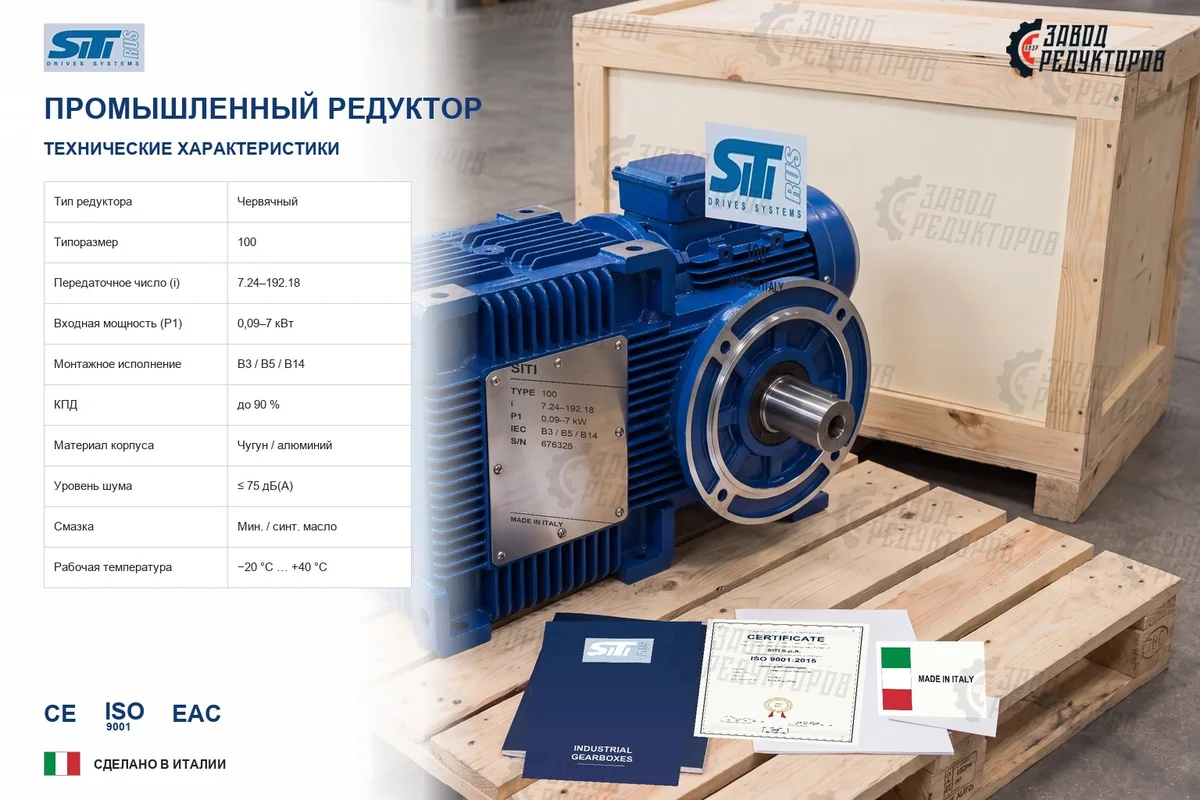
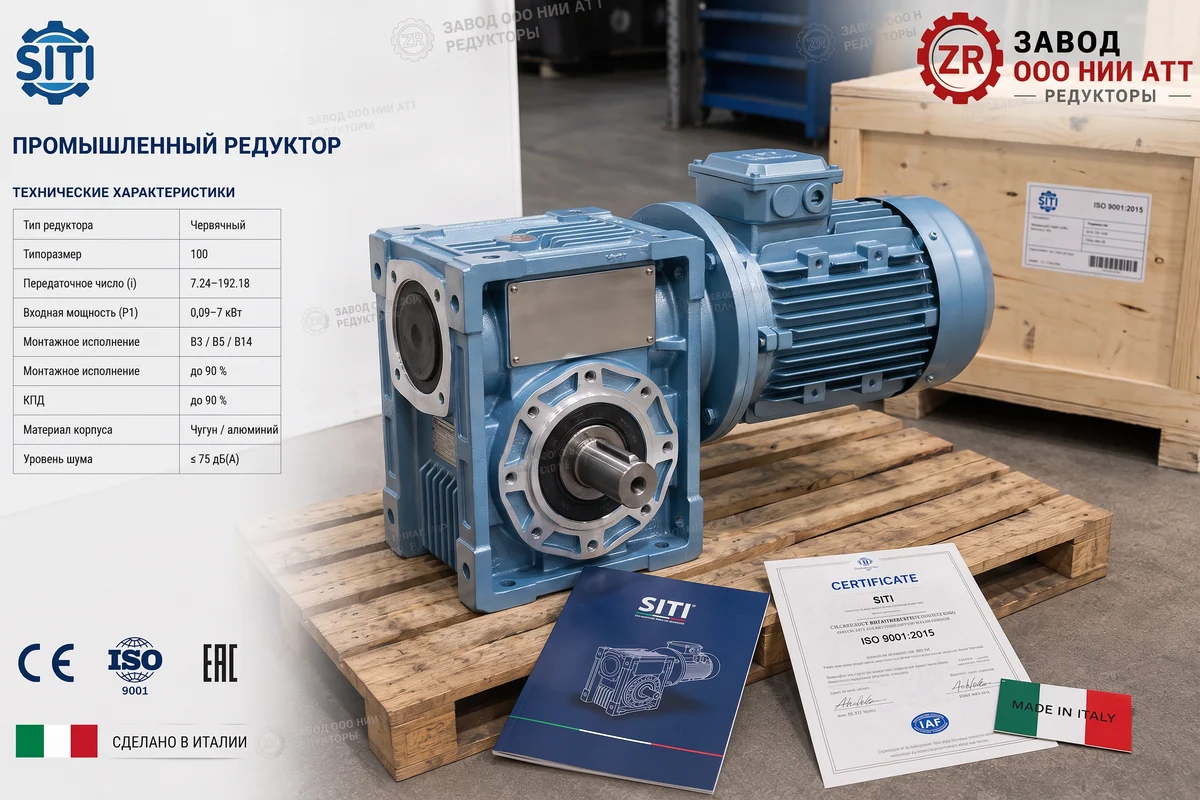
Карточки одним промтом: партия 2 (ещё 8 фирм), правки промта
Покрыто 16 из 19 фирм. Исправлено: держатель сертификата = фирма (было
всегда MOTOVARIO), явное «EXACTLY N rows, no duplicate rows» убрало дубли.
SEW красный, TOS Znojmo зелёный, Transtecno серебристый — цвета по фирмам.

diff --git a/tools/imggen/oneshot.py b/tools/imggen/oneshot.py
@@ -125,7 +125,8 @@ def build_prompt(card):
     style = BRAND_STYLE.get(card["brand"], DEFAULT_STYLE)
     geo = GEO.get(g, GEO["червячный"])
     flag_adj, made = FLAG.get(card["country"], ("", card["country"].upper()))
-    table = "\n".join(f"{k} | {v}" for k, v in rows(card))
+    rr = rows(card)
+    table = "\n".join(f"{k} | {v}" for k, v in rr)
     logo = card["brand"]
     return (
         "Recreate this exact marketing product card layout, same composition, "
@@ -133,9 +134,10 @@ def build_prompt(card):
         "below.\n\n"
         "LEFT SIDE — white panel with a specifications table. Dark blue bold "
         "title «ПРОМЫШЛЕННЫЙ РЕДУКТОР», subtitle «ТЕХНИЧЕСКИЕ ХАРАКТЕРИСТИКИ». "
-        "Then a clean bordered two-column table, Russian labels left and values "
-        "right, EXACTLY these rows, crisp correctly spelled Russian, black on "
-        f"white:\n{table}\n"
+        f"Then a clean bordered two-column table with EXACTLY {len(rr)} rows, "
+        "no duplicate rows, no repeated labels, Russian labels left and values "
+        "right, crisp correctly spelled Russian, black on white:\n"
+        f"{table}\n"
         "At the bottom left three compliance marks «CE», «ISO 9001», «EAC», and "
         f"below them {flag_adj} flag with «{made}».\n\n"
         f"TOP LEFT corner: the {logo} company logo. TOP RIGHT corner: a red "
@@ -143,9 +145,10 @@ def build_prompt(card):
         f"RIGHT SIDE — {geo}, {style}, standing on a wooden pallet in a "
         "warehouse, soft daylight from the left, photorealistic. A large blank "
         "polished steel nameplate on the housing. On the pallet in front: an "
-        "ISO 9001:2015 certificate sheet, a dark blue product booklet with the "
-        f"{logo} logo, and a small {flag_adj} flag «MADE IN» card. Behind it a "
-        f"wooden shipping crate with a {logo} label.\n\n"
+        f"ISO 9001:2015 certificate titled «{logo}» as the certificate holder, "
+        f"a dark blue product booklet with the {logo} logo, and a small "
+        f"{flag_adj} flag «MADE IN» card. Behind it a wooden shipping crate "
+        f"with a {logo} label.\n\n"
         "Faint repeated «ЗАВОД РЕДУКТОРОВ» watermark tiled across the whole "
         "image. Catalogue-quality product photography, sharp, 2K.")
 
